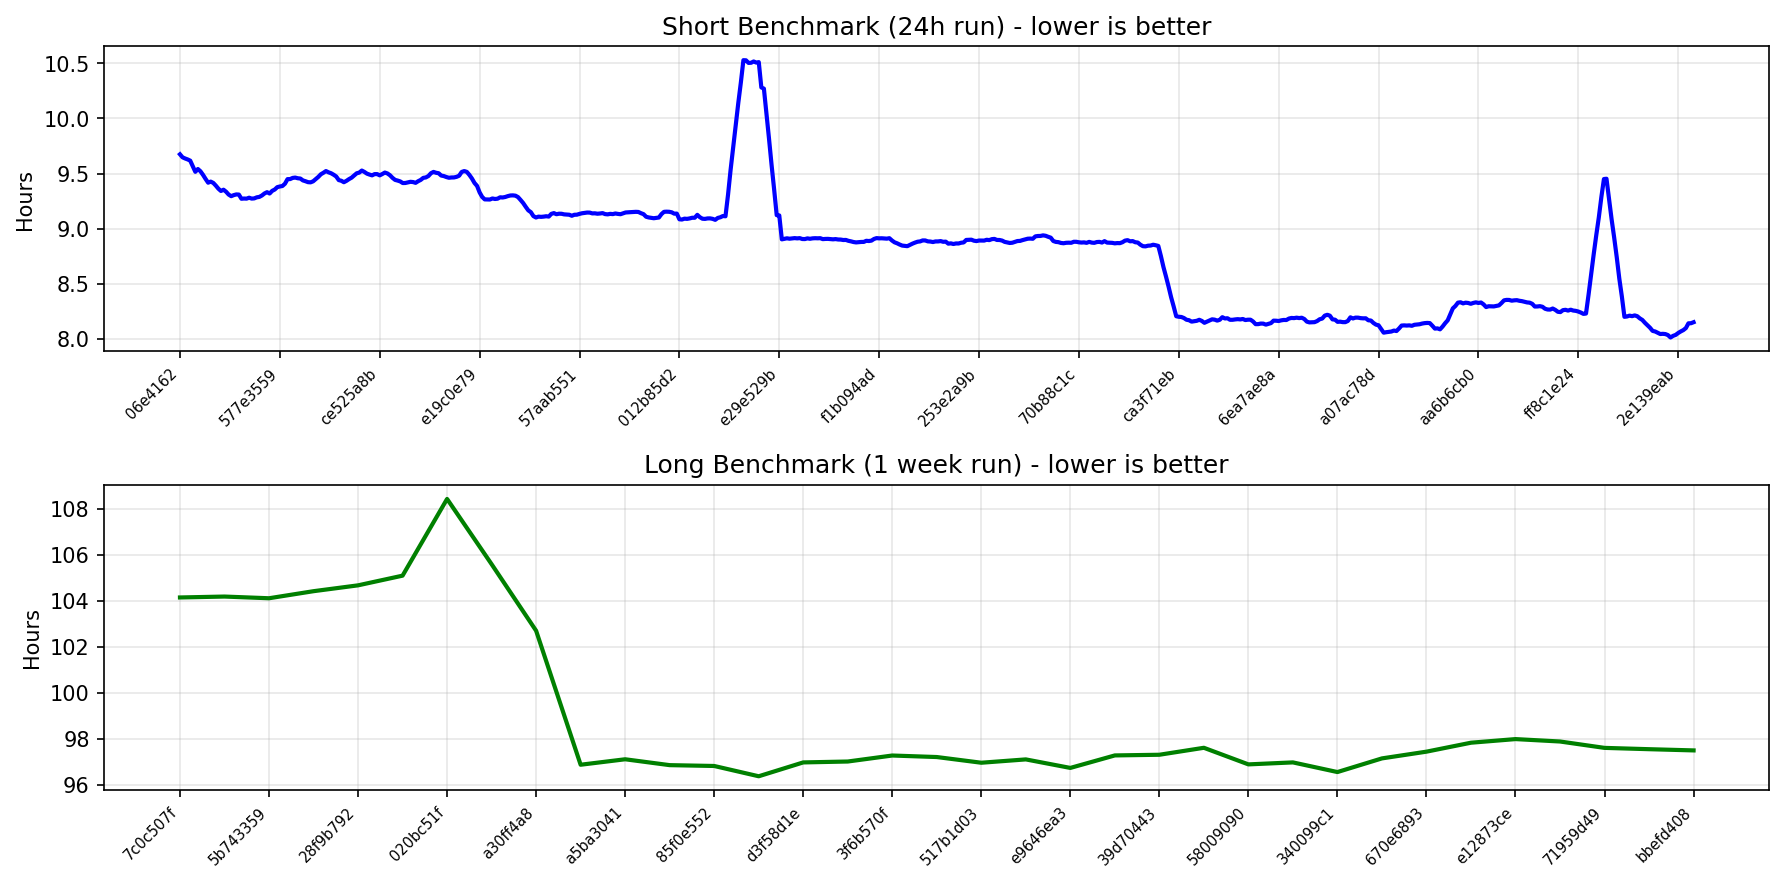
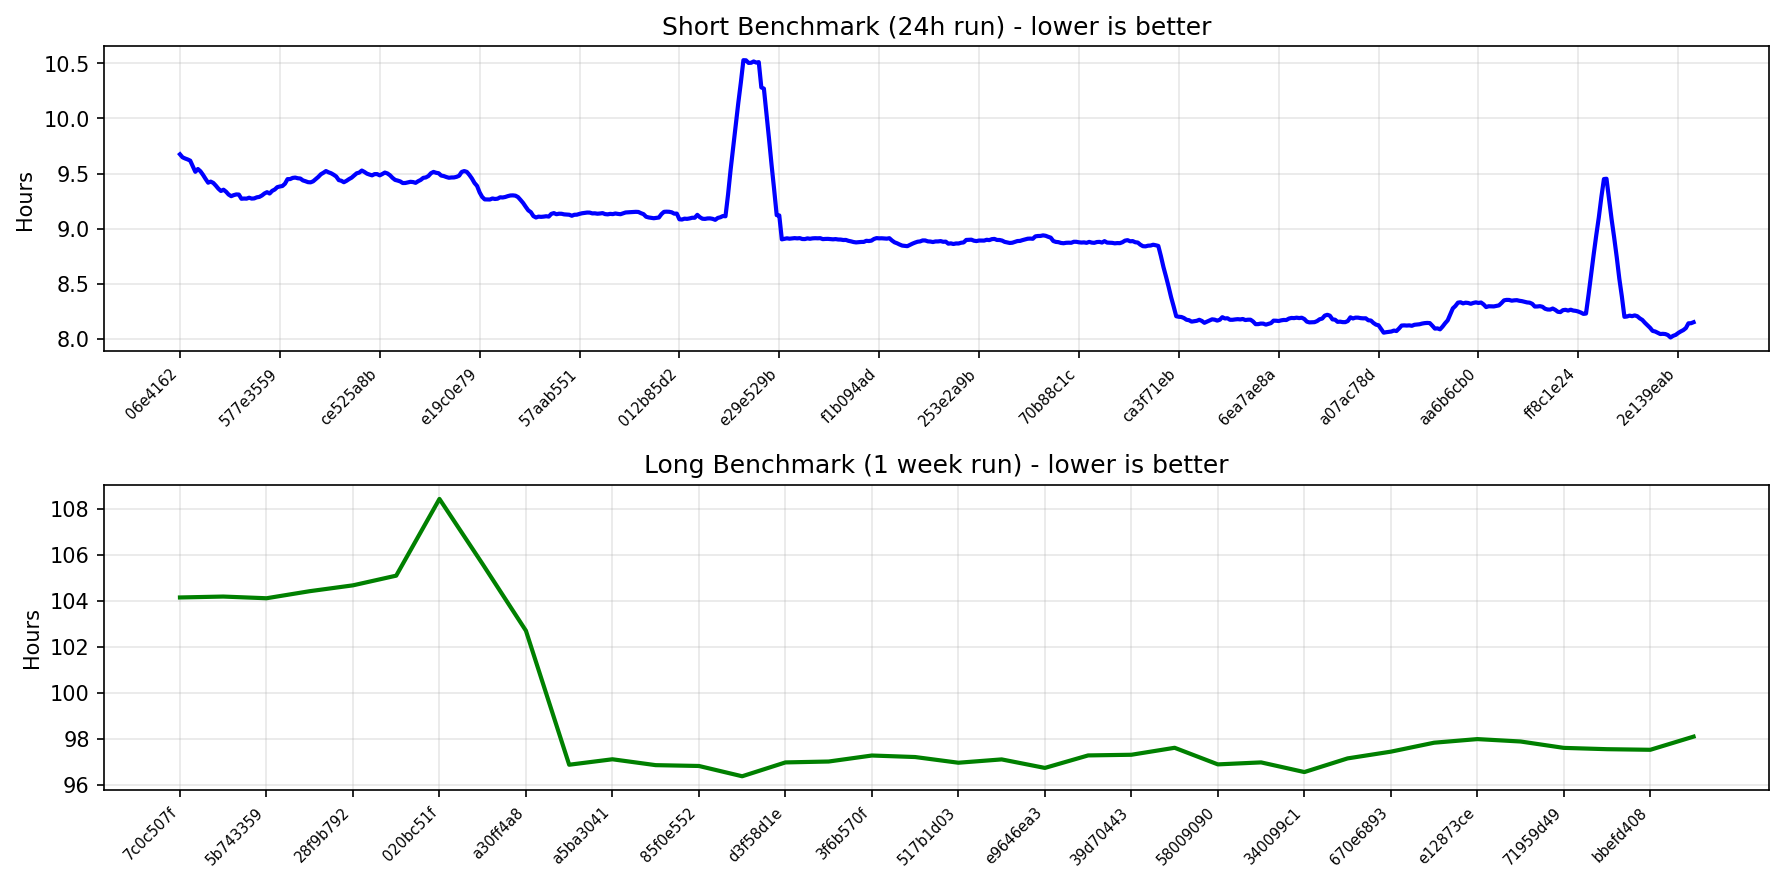
chore: update long benchmark Readme

diff --git a/README.md b/README.md
@@ -24,11 +24,11 @@ This repository contains various eth1 import benchmark metrics.
 
 | Generated At | Baseline SHA | Contender SHA | Baseline Time | Contender Time | Time Delta |
 |--------------|--------------|---------------|---------------|----------------|------------|
+| 2026-04-18 16:00:52 | [bbefd408](https://github.com/status-im/nimbus-eth1/commit/bbefd408) | [9fe12d1b](https://github.com/status-im/nimbus-eth1/commit/9fe12d1b) | 98h2m3s | 98h6m53s | 4m49s, 0.08% |
 | 2026-04-14 13:47:24 | [5286def0](https://github.com/status-im/nimbus-eth1/commit/5286def0) | [bbefd408](https://github.com/status-im/nimbus-eth1/commit/bbefd408) | 96h23m43s | 98h2m3s | 1h38m19s, 1.70% |
 | 2026-04-10 13:12:48 | [71959d49](https://github.com/status-im/nimbus-eth1/commit/71959d49) | [5286def0](https://github.com/status-im/nimbus-eth1/commit/5286def0) | 98h11m35s | 96h23m43s | -1h47m51s, -1.83% |
 | 2026-04-06 10:49:28 | [ee411adc](https://github.com/status-im/nimbus-eth1/commit/ee411adc) | [71959d49](https://github.com/status-im/nimbus-eth1/commit/71959d49) | 98h12m19s | 98h11m35s | -44s, -0.01% |
 | 2025-12-16 04:06:31 | [e12873ce](https://github.com/status-im/nimbus-eth1/commit/e12873ce) | [ee411adc](https://github.com/status-im/nimbus-eth1/commit/ee411adc) | 97h13m44s | 98h12m19s | 58m35s, 1.00% |
-| 2025-12-12 02:42:40 | [ee411adc](https://github.com/status-im/nimbus-eth1/commit/ee411adc) | [e12873ce](https://github.com/status-im/nimbus-eth1/commit/e12873ce) | 98h30m28s | 97h13m44s | -1h16m44s, -1.30% |
 
 ## Performance Changes >1%
 
